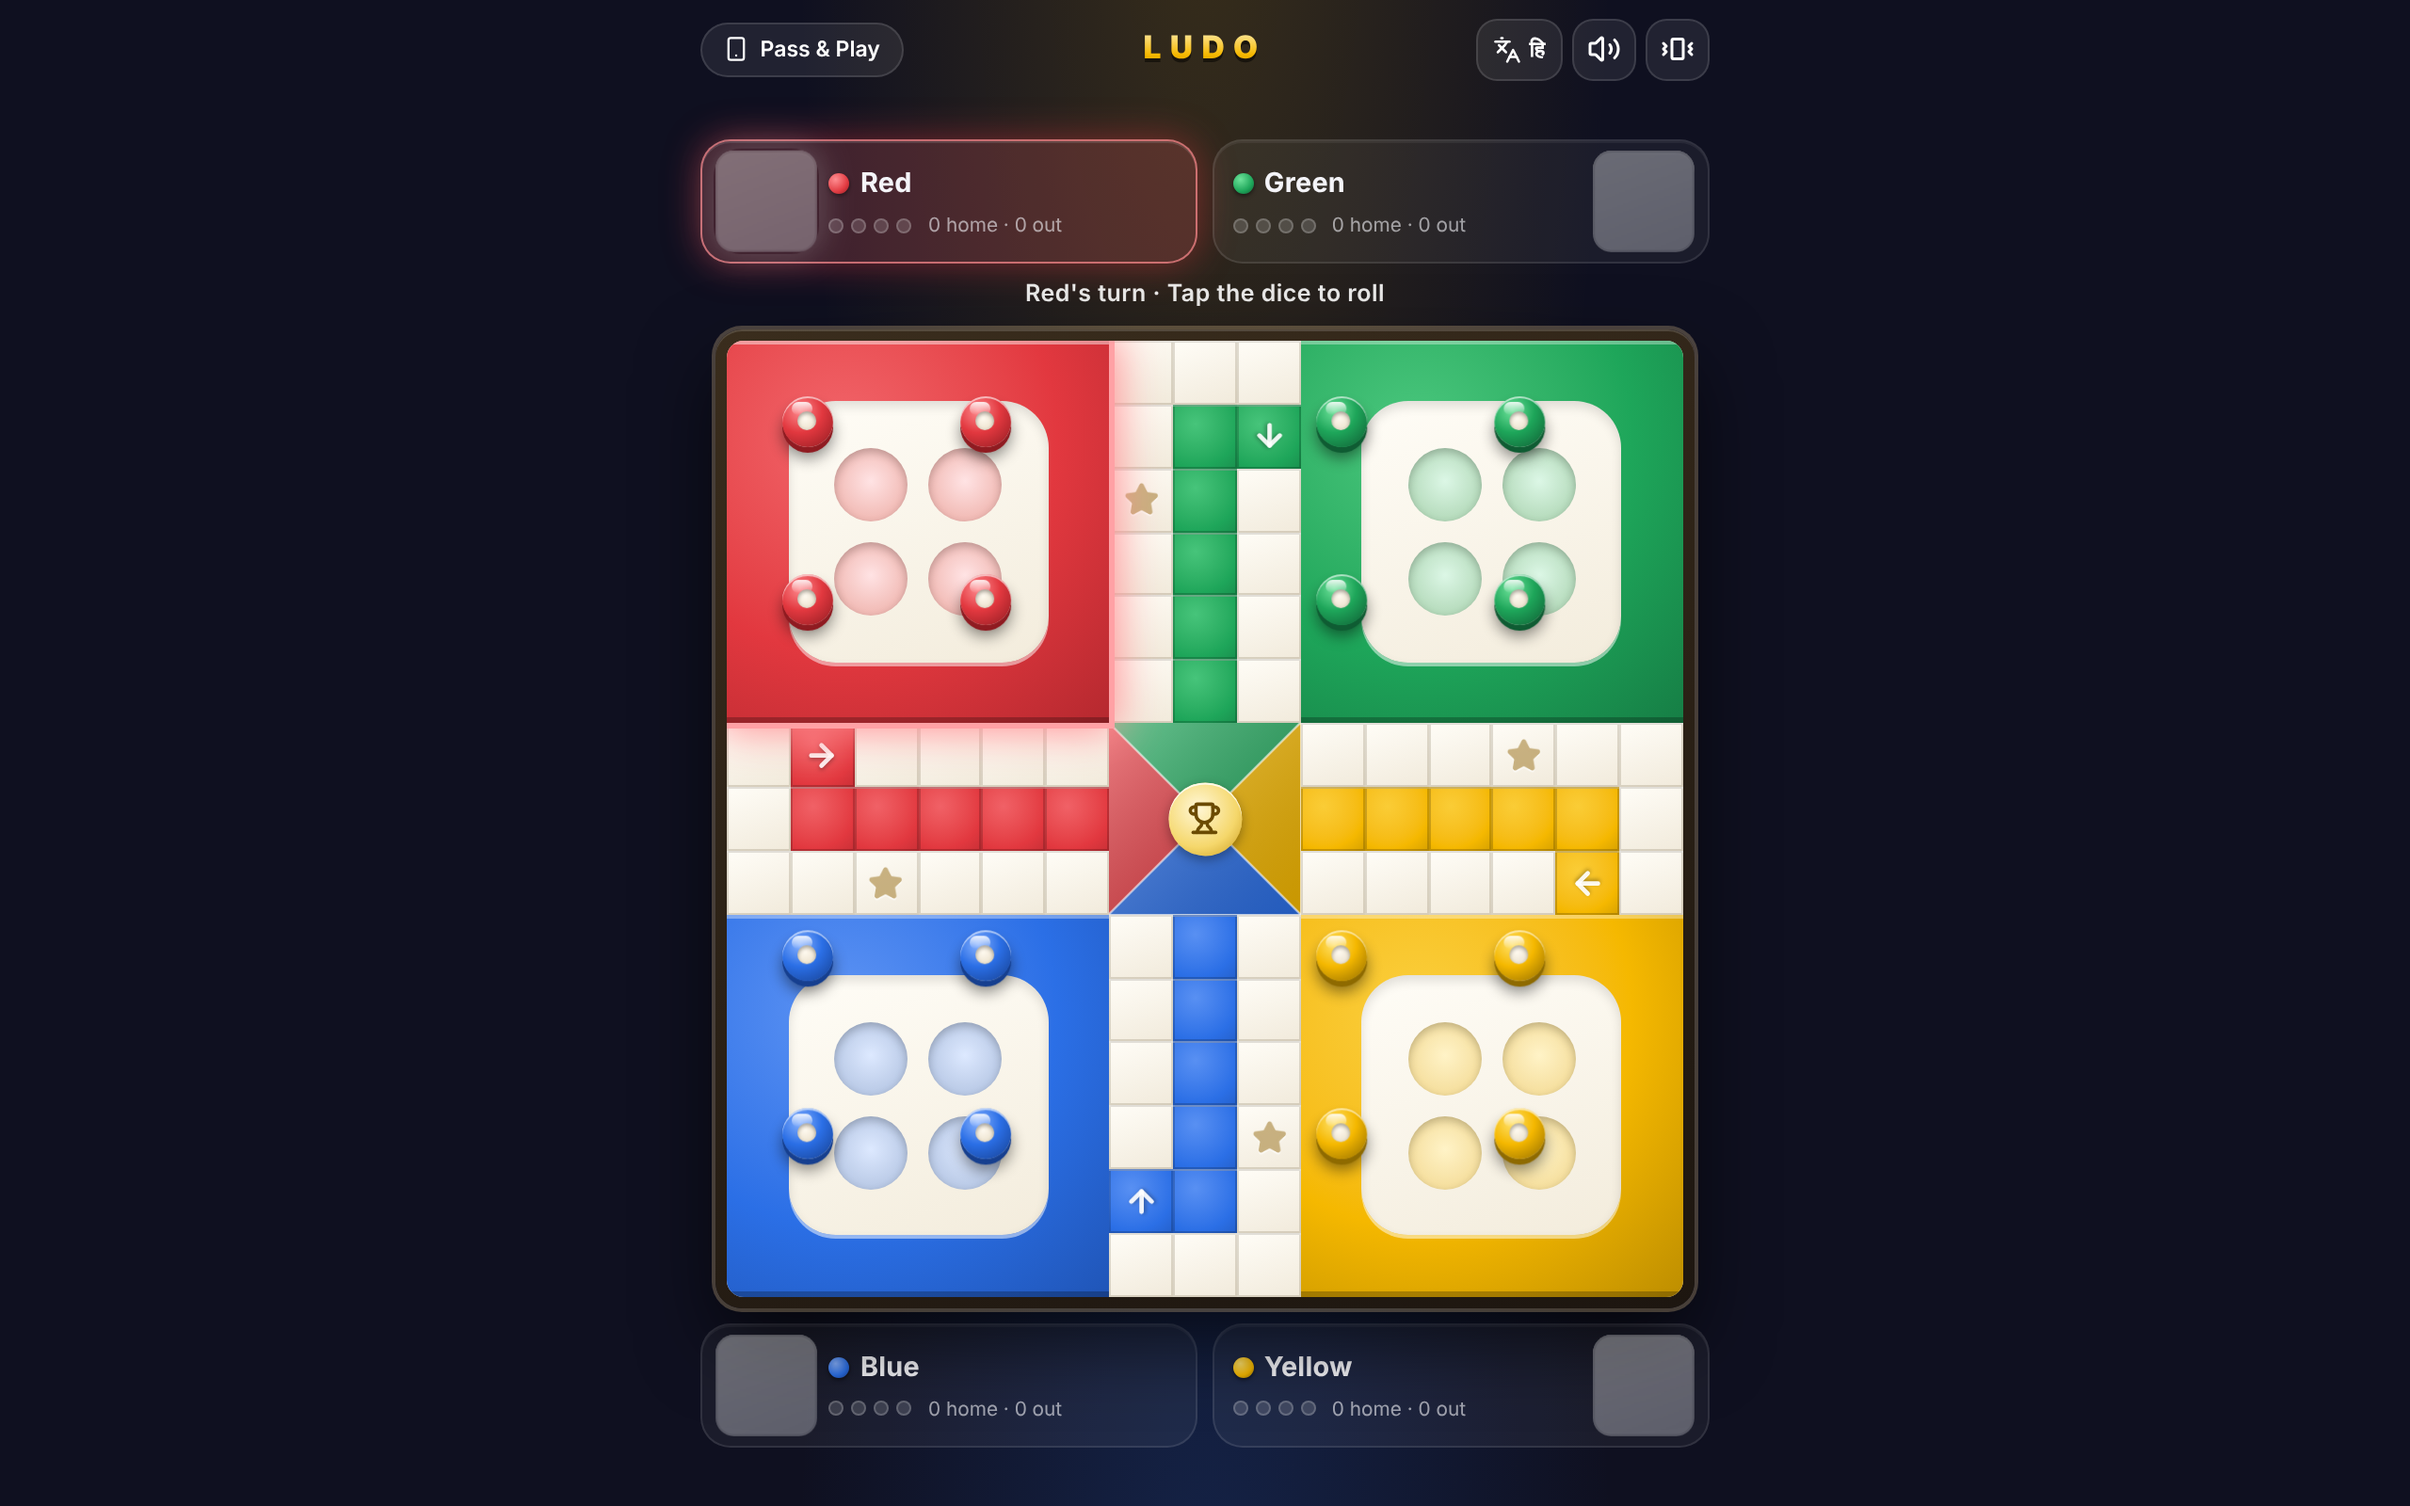
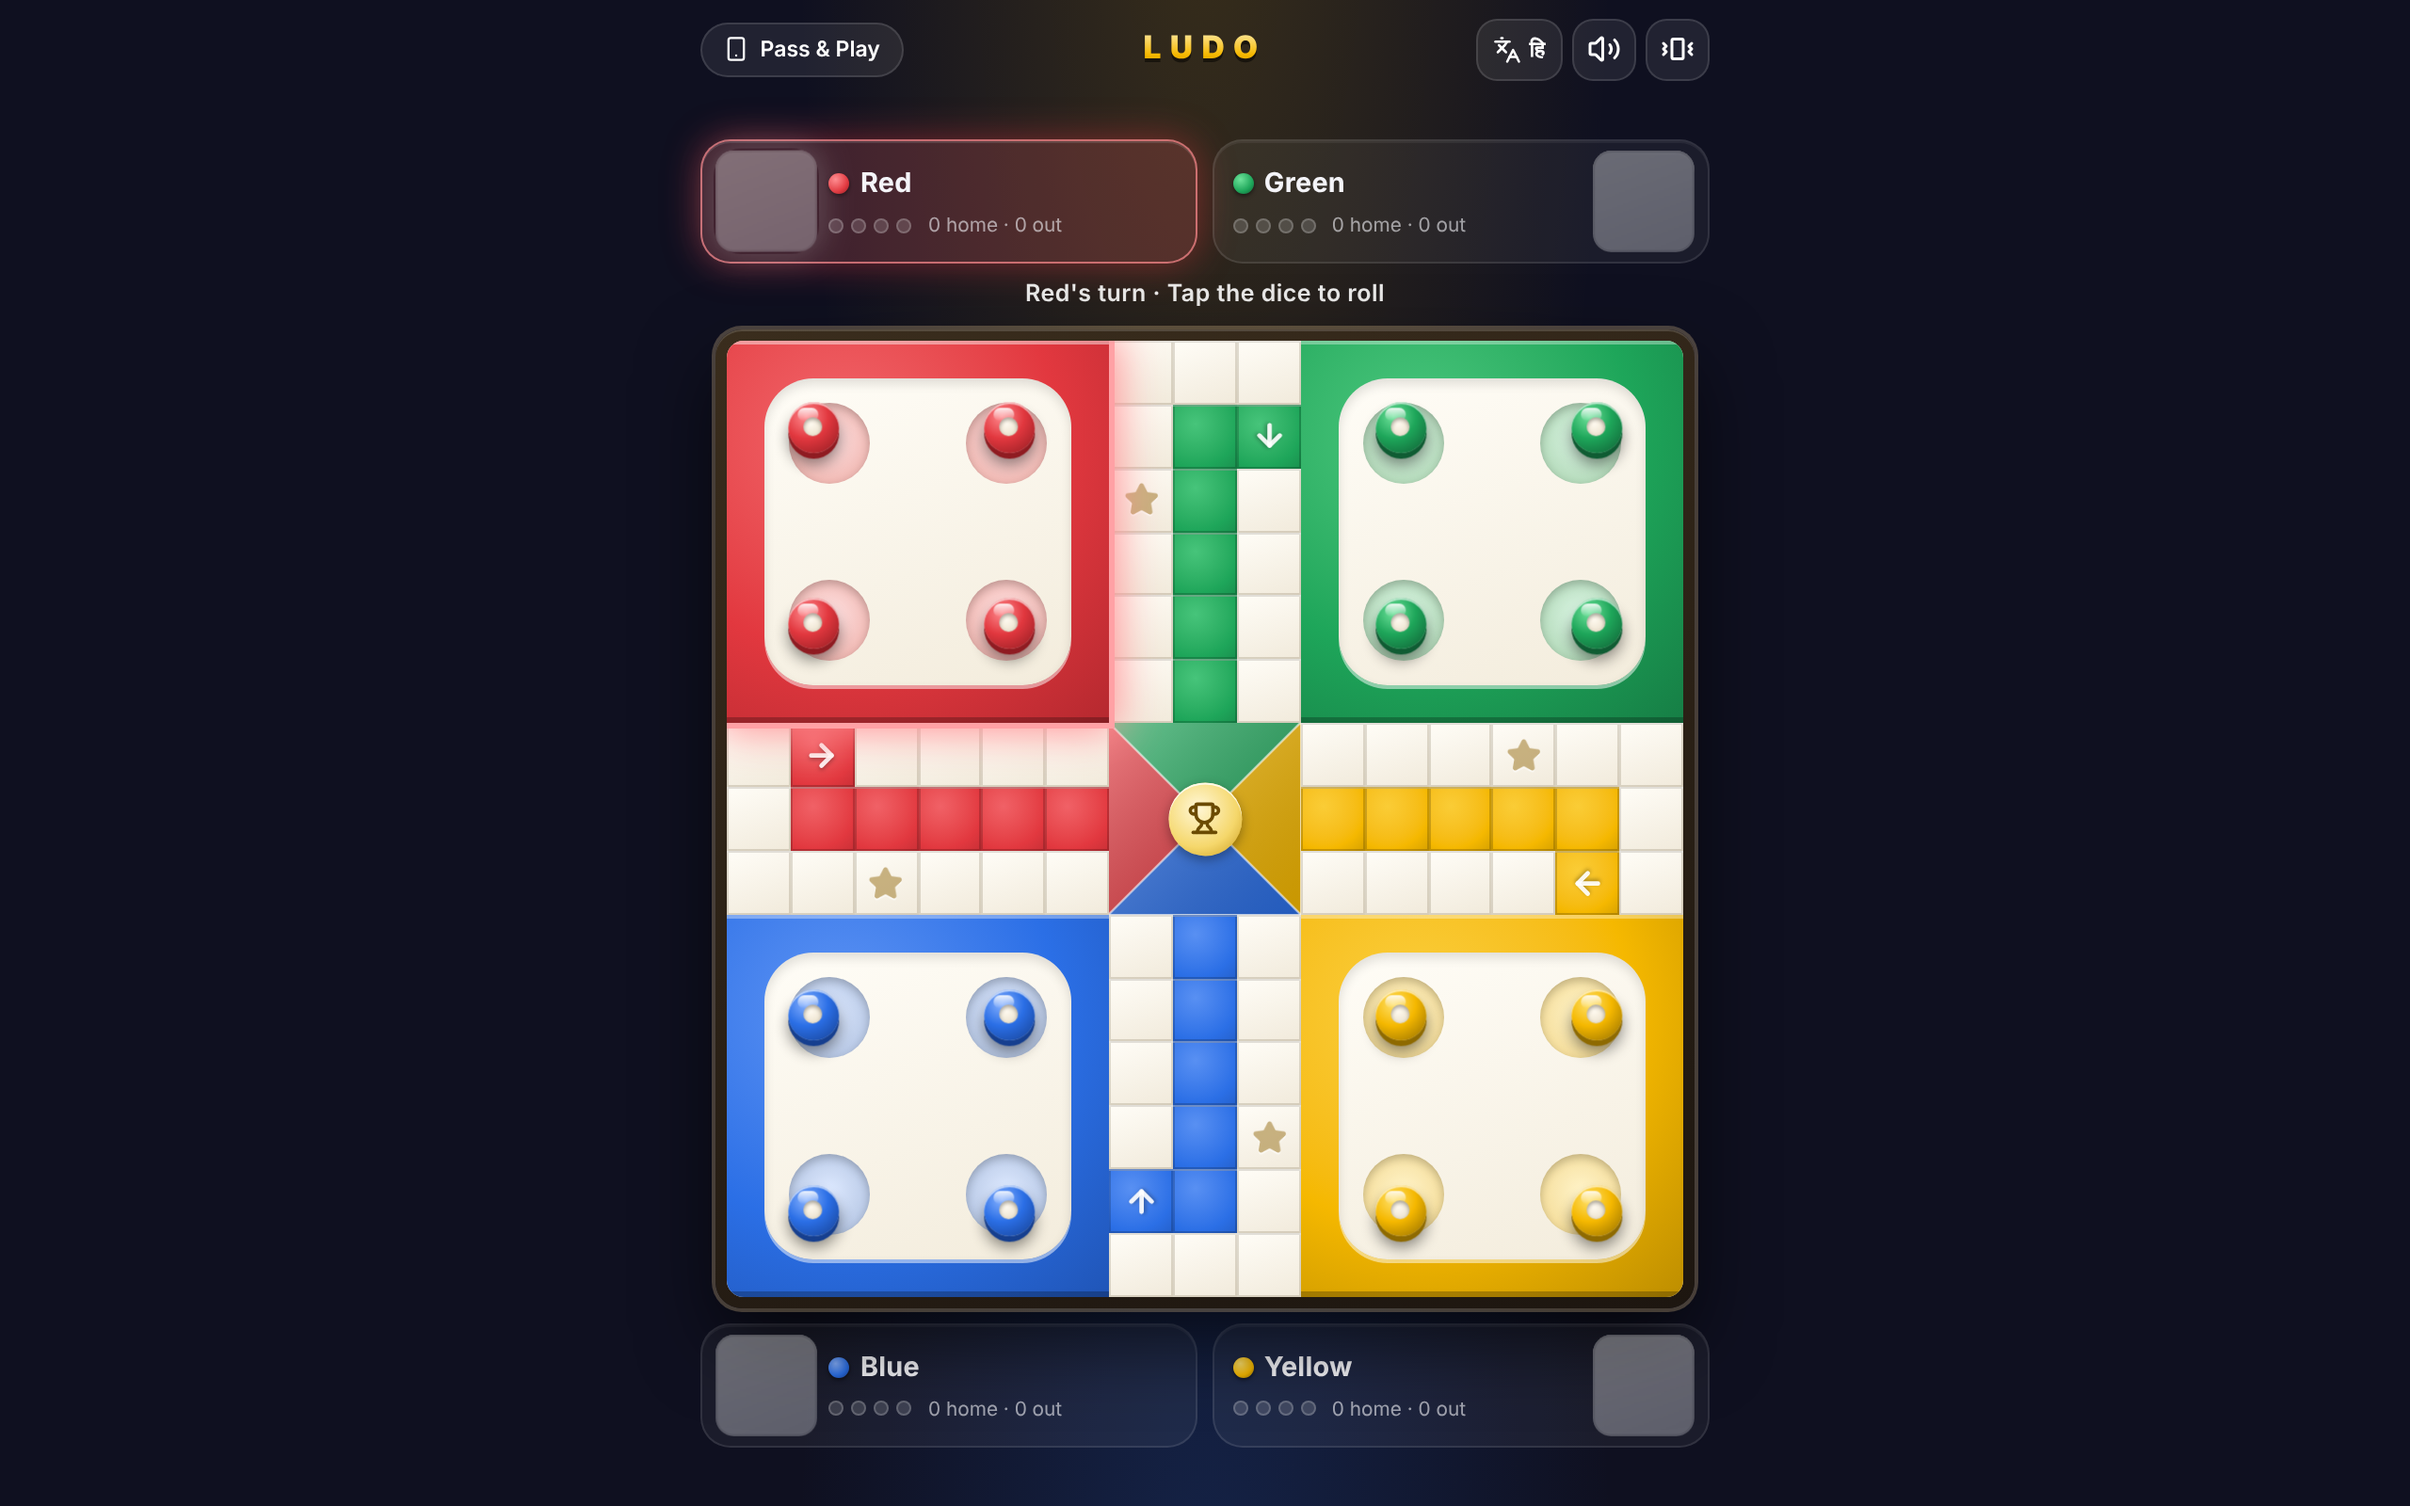
fix: centre yard tokens in their slots; pin Tauri CLI locally for Android builds
- Yard panel geometry now derives from the 6x6 cell grid so slot circles sit
  exactly under resting tokens
- Android build failed because the global npm tauri shim recorded a relative
  CLI path in Gradle; the CLI is now a local devDependency run via npx

Claude-Session: https://claude.ai/code/session_013hCGS2KGtQcJGiiJ6uYKck

diff --git a/ui/src/components/board/BoardYard.vue b/ui/src/components/board/BoardYard.vue
@@ -50,10 +50,13 @@ const style = computed(() => {
     0 0 22px 4px var(--c-light);
   z-index: 1;
 }
+/* Geometry is tied to the 6x6 cell grid so each slot circle is centred on the
+   cell a resting token occupies (local cells 2 and 5 -> 25% / 75% of the yard):
+   panel spans 10%-90%, slots are 1.2 cells wide, padding/gap derived from that. */
 .yard__panel {
   position: absolute;
-  inset: 16%;
-  border-radius: 18%;
+  inset: 10%;
+  border-radius: 16%;
   background: linear-gradient(160deg, #fffdf7 0%, #f3ecdc 100%);
   box-shadow:
     inset 0 3px 6px rgba(0, 0, 0, 0.12),
@@ -61,8 +64,8 @@ const style = computed(() => {
   display: grid;
   grid-template-columns: 1fr 1fr;
   grid-template-rows: 1fr 1fr;
-  padding: 12%;
-  gap: 12%;
+  padding: 6.25%;
+  gap: 37.5%;
 }
 .yard__slot {
   border-radius: 9999px;

diff --git a/tauri/README.md b/tauri/README.md
@@ -7,9 +7,8 @@ so the host phone is simply the first client of the server that friends join.
 ## Desktop (Linux/macOS/Windows)
 
 ```bash
-npm i -g @tauri-apps/cli
 cd ui && npm run build
-cd ../tauri && cargo tauri build
+cd ../tauri && npm ci && npx tauri build
 ```
 
 ## Android APK
@@ -19,11 +18,11 @@ Prerequisites: Android SDK + NDK, Java 17, Rust targets
 
 ```bash
 cd ui && npm run build
-cd ../tauri
-cargo tauri icon icons/icon.png
-cargo tauri android init
+cd ../tauri && npm ci
+npx tauri icon icons/icon.png
+npx tauri android init
 ./android/patch.sh                 # loopback cleartext + permissions + portrait
-cargo tauri android build --apk --target aarch64 --target armv7
+npx tauri android build --apk --target aarch64 --target armv7
 ```
 
 The GitHub Actions `release.yml` workflow does exactly this on every `v*` tag
